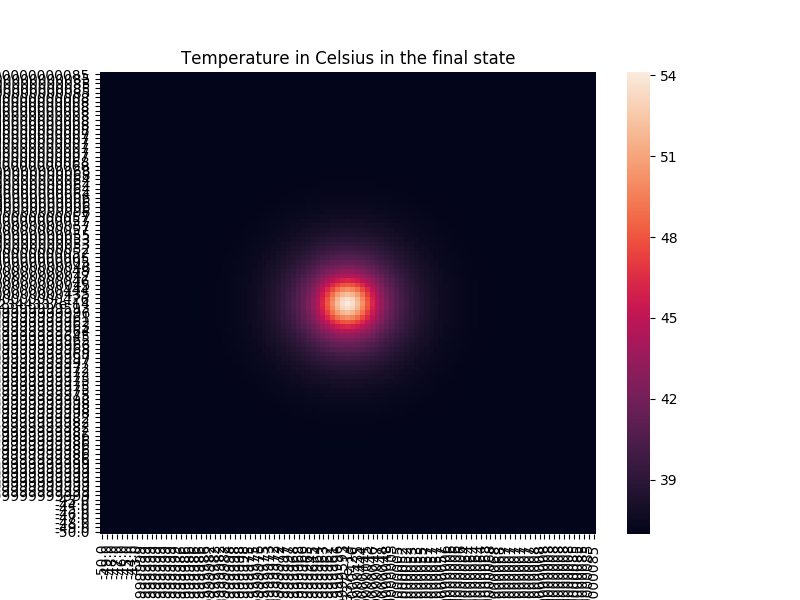
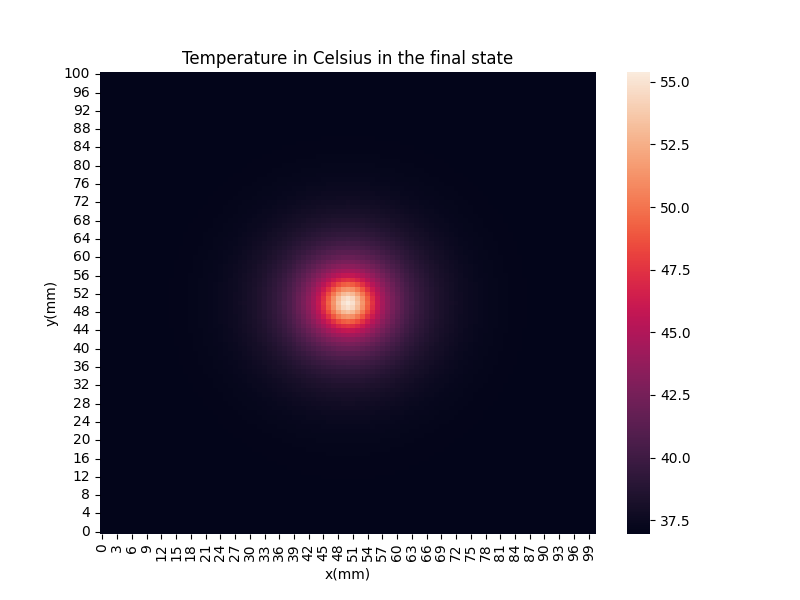
Reduce time discretization and increase simulation time

diff --git a/plot_solution.py b/plot_solution.py
@@ -2,7 +2,6 @@
 
 import matplotlib.pyplot as plt
 import numpy as np
-from mpl_toolkits.mplot3d import Axes3D
 import seaborn as sns
 import os
 import sys
@@ -14,9 +13,11 @@ def load_sol_tempo(loaded_arr):
     # we need to convert it to the original
     # array shape.reshaping to get original
     # matrice with original shape.
+    print('Original shape:', loaded_arr.shape)
     load_original_arr = loaded_arr.reshape(
         loaded_arr.shape[0], loaded_arr.shape[1] // 101, 101)
 
+    print('New shape:', load_original_arr.shape)
     return list(load_original_arr)
 
 def main():
@@ -48,7 +49,7 @@ def main():
     step = 10
     for k in range(0,len(sol_tempo),step):
         fig = plt.figure()
-        ax = fig.gca(projection='3d')
+        ax = fig.add_subplot(projection='3d')
         ax.plot_wireframe(x2,y2,sol_tempo[k], label='t='+"{:.0f} s".format(k*h_t*1000))
         fig.legend()
         ax.set_zlim(37, 55)
@@ -60,7 +61,7 @@ def main():
         # plt.show()
         plt.close()
     
-    sns.heatmap(sol_tempo[-1].T, xticklabels=x, yticklabels=y)
+    sns.heatmap(sol_tempo[-1].T)
     ax = plt.gca()
     ax.invert_yaxis()
     ax.set_title('Temperature in Celsius in the final state')
@@ -69,5 +70,6 @@ def main():
 
     plt.savefig(f'{directory}/heatmap.png')
     # plt.show()
+    print(f'Images saved to {directory}.')
 
 if __name__=='__main__': main()

diff --git a/main.c b/main.c
@@ -54,8 +54,8 @@ int main(int argc, char *argv[])
     double end_x=0.05;
 
     //define time discretization
-    double h_t=0.001;
-    double end_t = 600.0;
+    double h_t=0.01;
+    double end_t = 1000.0;
     int sol_step = 1; //print solution every 1s of simulation
 
     //number of iterations

diff --git a/README.md b/README.md
@@ -26,7 +26,7 @@ Run the simulation, printing the solution every second:
 
 The *false* argument runs the simulation without advection. To run it with advection, pass the *true* argument.
 
-A 10 min simulation of the temperature in the tumor region will be run, which takes around 3m20s (Intel i7-1165G7 8GB). 
+A 16 min 40 s simulation of the temperature in the tumor region will be run, which takes around 3 min 20 s (Intel i7-1165G7 8GB). 
 
 The solution will be printed on a single line for each time step, producing a 101 x 101 flattened matrix.
 
